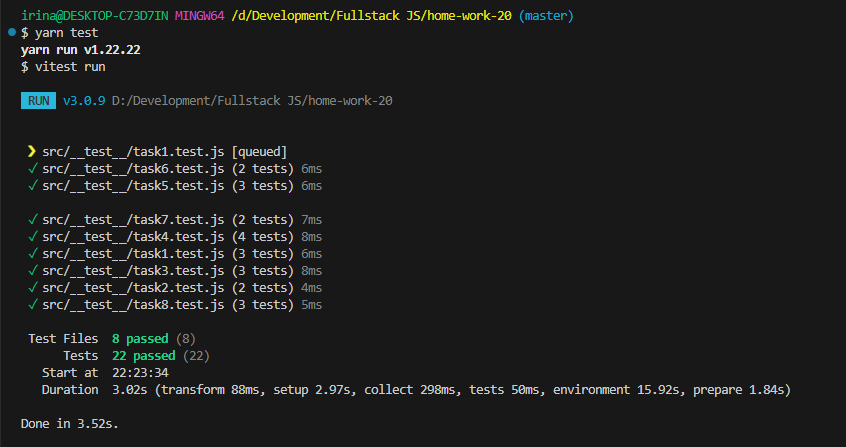
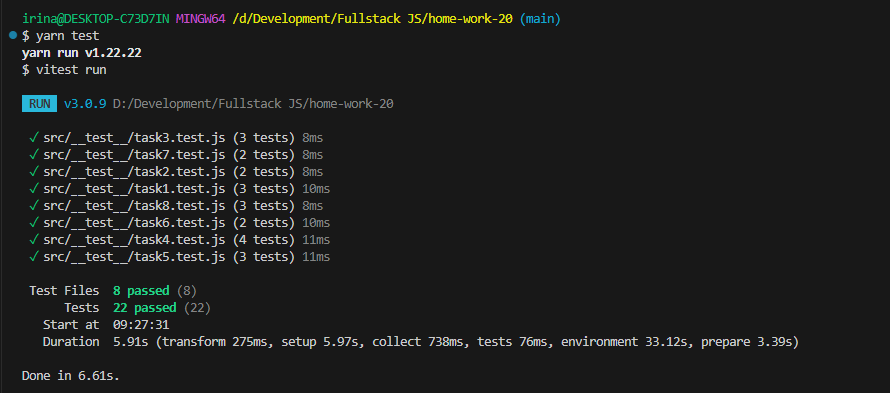
update commit

Changed region(s): [[0.0, 0.0, 0.6761, 0.7023], [0.0307, 0.7328, 0.9527, 0.8855], [0.0, 0.916, 0.1537, 0.9771]]

diff --git a/src/main.js b/src/main.js
@@ -15,6 +15,7 @@ var userObj = {
   lastName: 'Bieliaieva',
   age: 40
 }
+
 console.log(userObj);
 
 /*
@@ -32,9 +33,10 @@ var userObj = {
   lastName: 'Bieliaieva',
   age: 40,
   fullName: function () {
-    return this.firstName + ' ' + this.lastName
+    return userObj.firstName + ' ' + userObj.lastName;
   }
 }
+
 console.log(userObj.fullName()) // John Smith
 
 /*
@@ -47,9 +49,10 @@ console.log(userObj.fullName()) // John Smith
  * При виконанні завдання не використовуйте оператор if, потрібен розв'язок із логічним оператором ||.
  */
 function defUpperStr(str) {
-  var result = (str || 'DEFAULT TEXT').toUpperCase(); 
-  return result ;
+  var result = (str || 'DEFAULT TEXT').toUpperCase();
+  return result;
 }
+
 console.log(defUpperStr('My text')) // MY TEXT
 console.log(defUpperStr())          // DEFAULT TEXT
 
@@ -71,18 +74,14 @@ console.log(defUpperStr())          // DEFAULT TEXT
  */
 function evenFn(n) {
   var result = [];
-  for (var i = 0; i <= n; i++) {
-    if (i === 0) {
-      continue;
-    }
+  for (var i = 1; i <= n; i++) {
     if (i % 2 === 0) {
       result.push(i);
-    } else {
-      continue;
     }
   }
   return result;
 }
+
 console.log(evenFn(10)) // [2, 4, 6, 8, 10]
 console.log(evenFn(15)) // [2, 4, 6, 8, 10, 12, 14]
 console.log(evenFn(20)) // [2, 4, 6, 8, 10, 12, 14, 16, 18, 20]
@@ -139,8 +138,15 @@ console.log(weekFn('2')) // null
  * Використання операторів if, switch - заборонено.
  */
 function ageClassification(n) {
-  return (n < 0) ? null : (n <= 24) ? 'Дитинство' : (n <= 44) ? 'Молодість' : (n <= 65) ? 'Зрілість' : (n <= 75) ? 'Старість' : (n <= 90) ? 'Довголіття' : (n <= 122) ? 'Рекорд' : null;
+  return n < 0 ? null :
+    n <= 24 ? 'Дитинство' :
+      n <= 44 ? 'Молодість' :
+        n <= 65 ? 'Зрілість' :
+          n <= 75 ? 'Старість' :
+            n <= 90 ? 'Довголіття' :
+              n <= 122 ? 'Рекорд' : null;
 }
+
 console.log('    -1 :', ageClassification(-1)) // -1 : null
 console.log('     0 :', ageClassification(0)) // 0 : Дитинство
 console.log('     1 :', ageClassification(1)) // 1 : Дитинство
@@ -198,20 +204,14 @@ function oddFn(n) {
   var result = [];
   var i = 1;
   while (i <= n) {
-    if (i === 0) {
-      i++;
-      continue;
-    }
     if (i % 2 !== 0) {
       result.push(i);
-      i++;
-    } else {
-      i++;
-      continue;
     }
+    i++;
   }
   return result;
 }
+
 console.log(oddFn(10)) // [1, 3, 5, 7, 9]
 console.log(oddFn(15)) // [1, 3, 5, 7, 9, 11, 13, 15]
 console.log(oddFn(20)) // [1, 3, 5, 7, 9, 11, 13, 15, 17, 19]
@@ -230,9 +230,8 @@ console.log(oddFn(20)) // [1, 3, 5, 7, 9, 11, 13, 15, 17, 19]
 function mainFunc(a, b, cb) {
   if (typeof cb === 'function') {
     return cb(a, b);
-  } else {
-    return false;
   }
+  return false;
 }
 
 /*
